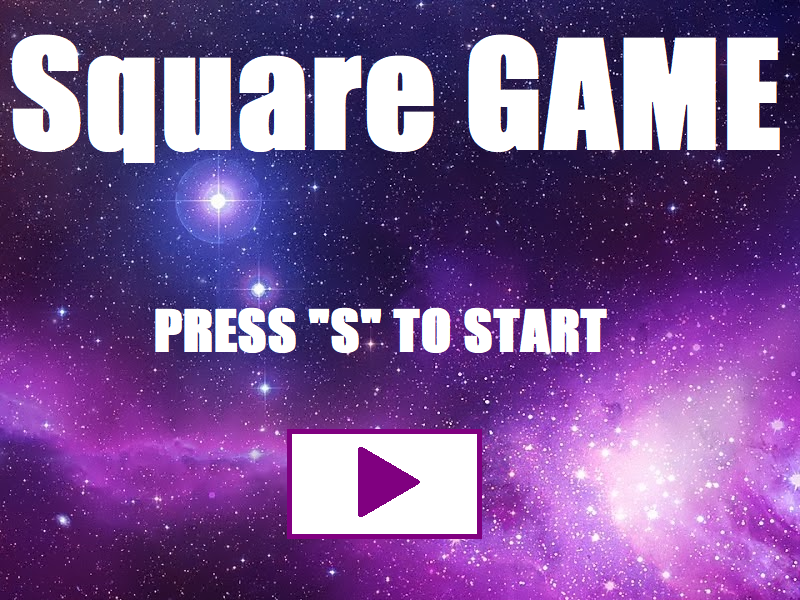
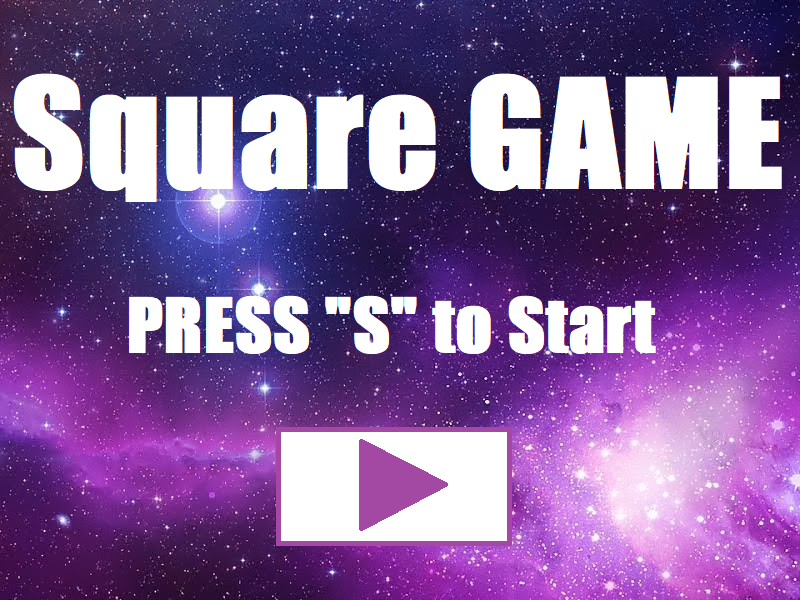
Startbildschirme geändert

Changed region(s): [[0.0, 0.06, 1.0, 0.36], [0.1562, 0.48, 0.8438, 0.6], [0.3438, 0.69, 0.6562, 0.93]]

diff --git a/Beispielprojekt/Beispielprojekt.cpp b/Beispielprojekt/Beispielprojekt.cpp
@@ -55,11 +55,11 @@ public:
 		, Hintergrund("Hintergrund.jpg")
 		, Startbildschirm("Startbildschirm.png")
 		, Pausenbild ("Pause.png")
-		, Ende("Ende.png")
+		, Ende("Ende_1.png")
 		, Spielsong1("The Caribbean Theme Song.mp3")
 		, Spielsong2("Geometry Dash level 2.mp3")
 		, Level_geschafft("Level_geschafft.png")
-		, Level ("Levelauswahl.png")
+		, Level ("Levelauswahl_1.png")
 		, Pausenanzeige(40)
 		, Prozentanzeige(70)
 
